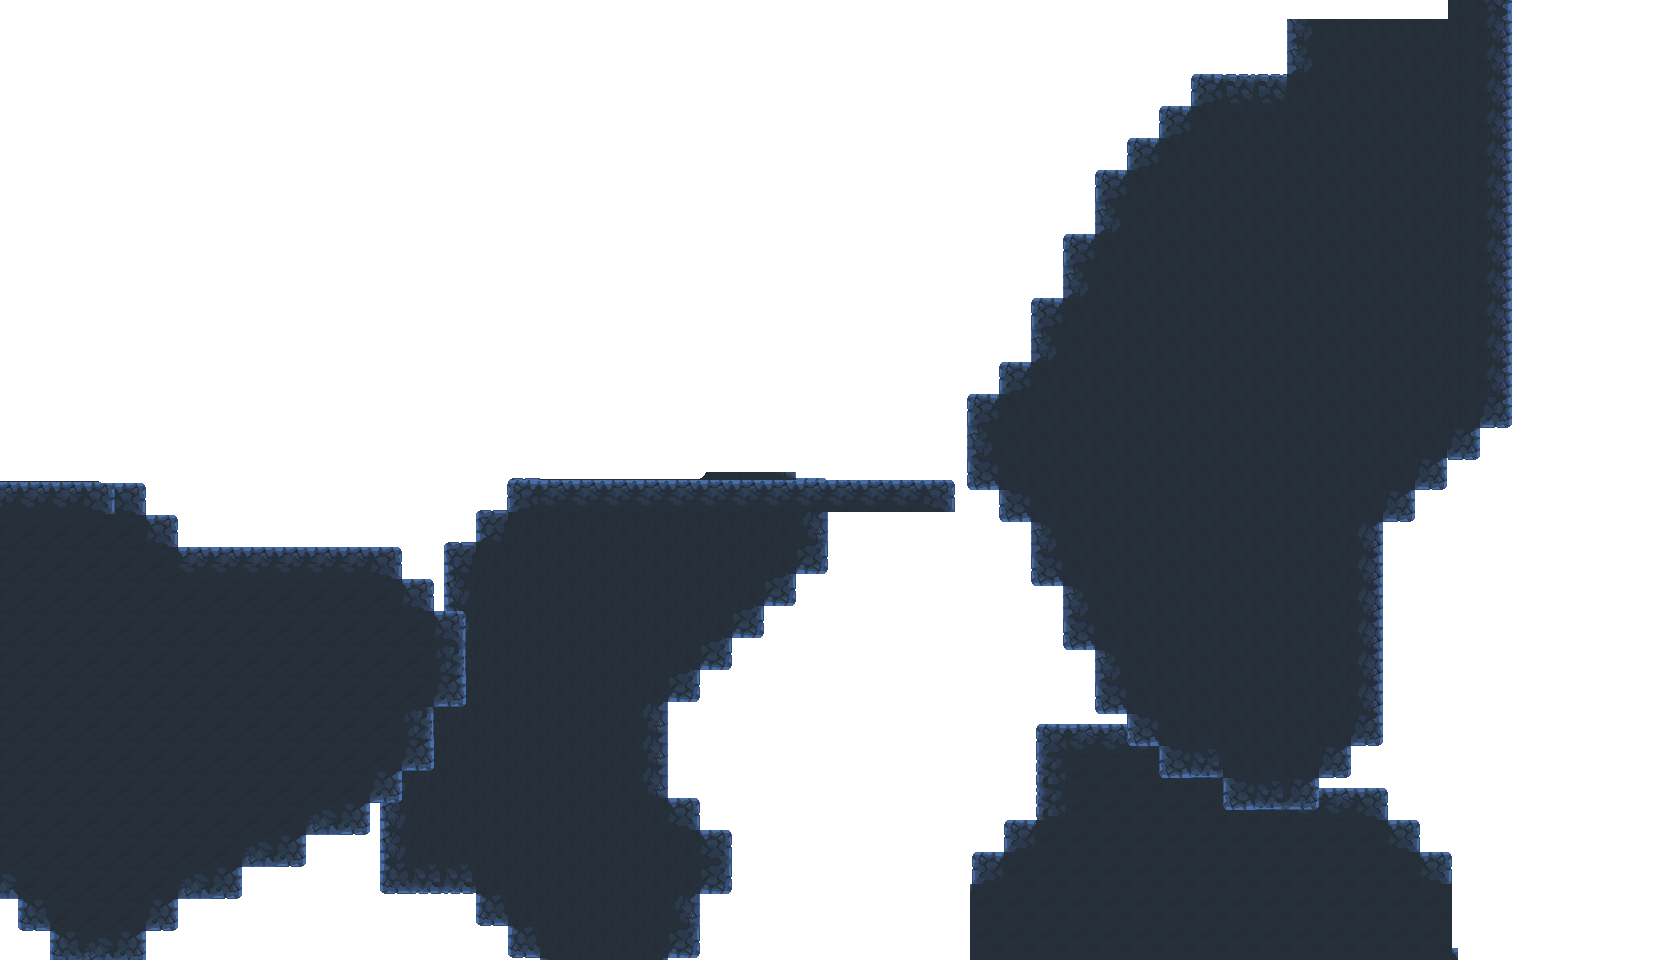
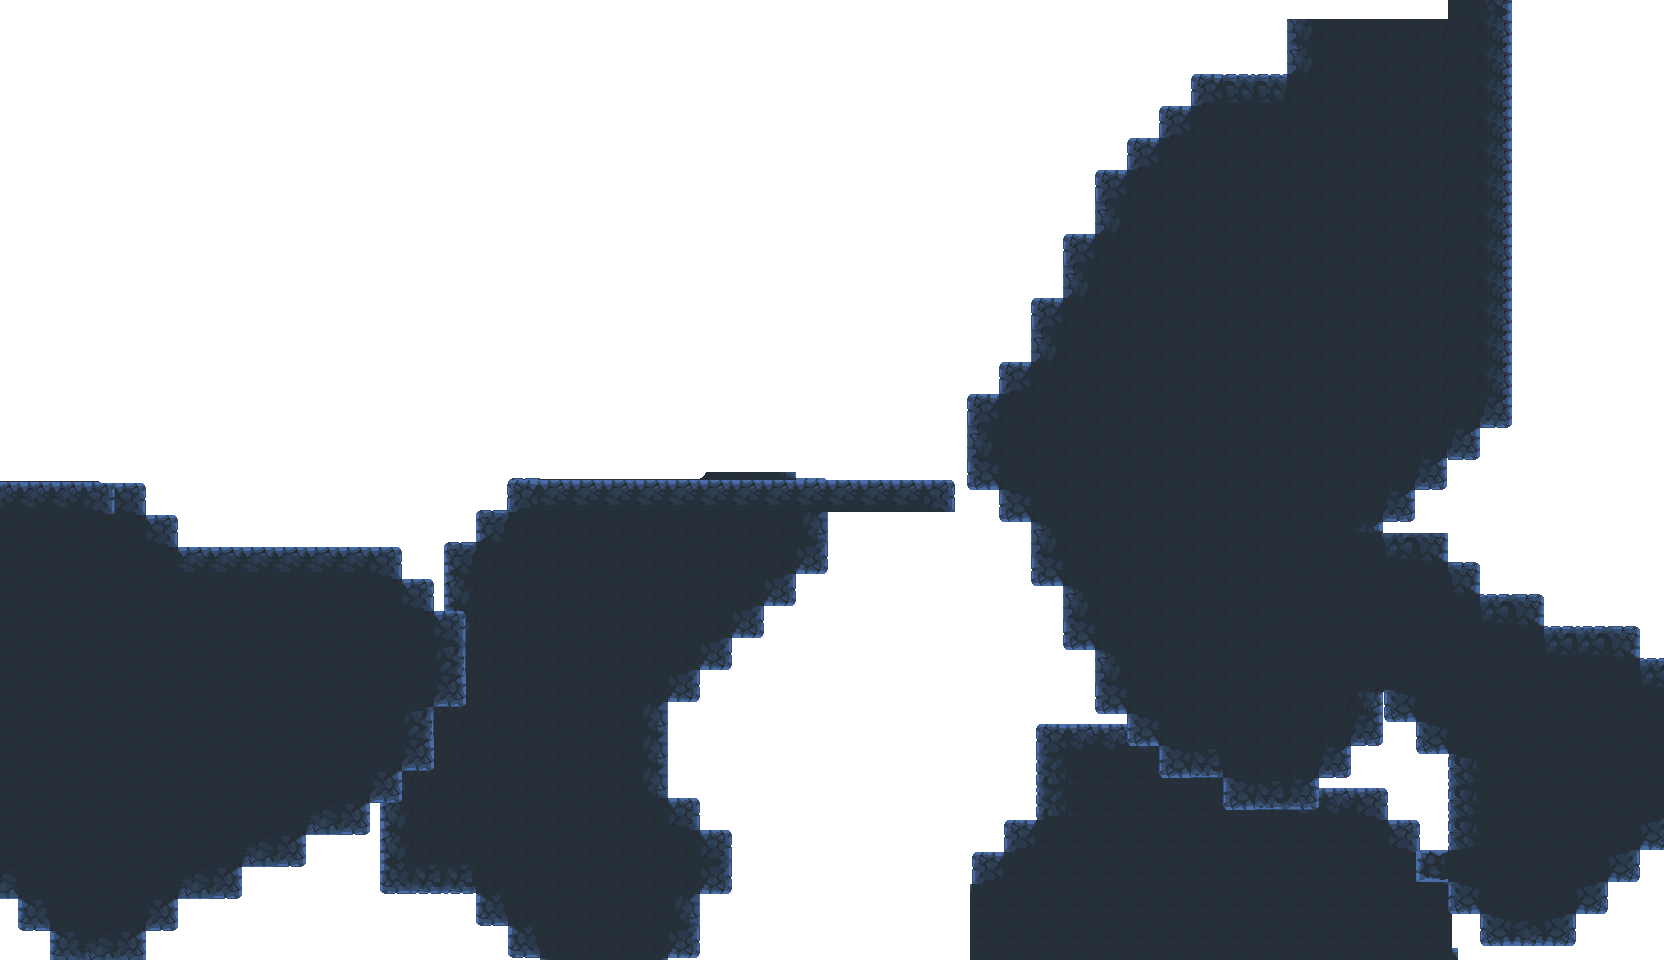
1

Changed region(s): [[0.8125, 0.5312, 1.0, 1.0]]

diff --git a/Backend/AbyssMiner/js/scenes/SafeZone4Scene.js b/Backend/AbyssMiner/js/scenes/SafeZone4Scene.js
@@ -347,6 +347,12 @@ class SafeZone4Scene extends MainGameScene {
                 if (_seen.has(k)) return; _seen.add(k);
                 new CavetileWall(this, c * G + G / 2, r * G + G / 2, G, G);
             });
+            // (用户) (-11,-6)→(13,-8) 生成 cavetilewall (同一去重集)
+            for (let c = -11; c <= 13; c++) for (let r = -8; r <= -6; r++) {
+                const k = c + ',' + r;
+                if (_seen.has(k)) continue; _seen.add(k);
+                new CavetileWall(this, c * G + G / 2, r * G + G / 2, G, G);
+            }
         }
 
         // 应用 level data — 已停用 (地图重置: 不再加载旧地形/怪物/boss)

diff --git a/Backend/AbyssMiner/js/entities/Player.js b/Backend/AbyssMiner/js/entities/Player.js
@@ -54,6 +54,9 @@ class Player extends Phaser.Physics.Arcade.Sprite {
             _g.fillStyle(0xff00ff, 1).fillCircle(this.x, this.y, 2);
         }
         if (!this.body) return;
+        // (用户) 剧情锁: 过场期间玩家位置+动画完全交给剧情 (各 cutscene 自己 play run/idle),
+        //   不再读按键自驱 — 否则锁定期间按住跑会自播 run 动画 (位置被摁住、动画却没人管)
+        if (this.scene && this.scene._cinematicLock) return;
 
         // === 创造模式飞行: WASD 自由移动, 跳过其它移动逻辑 ===
         if (this.scene._creativeFly) {
